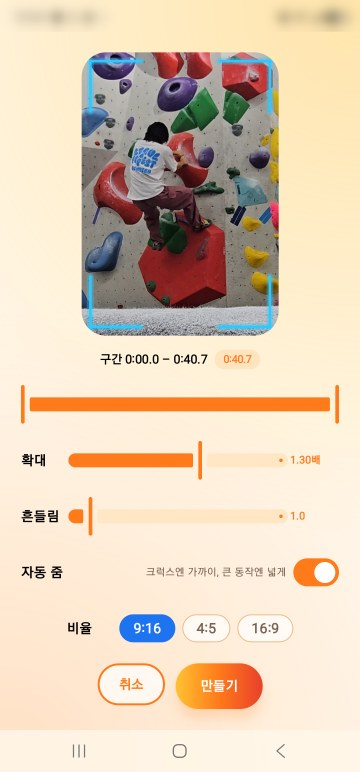
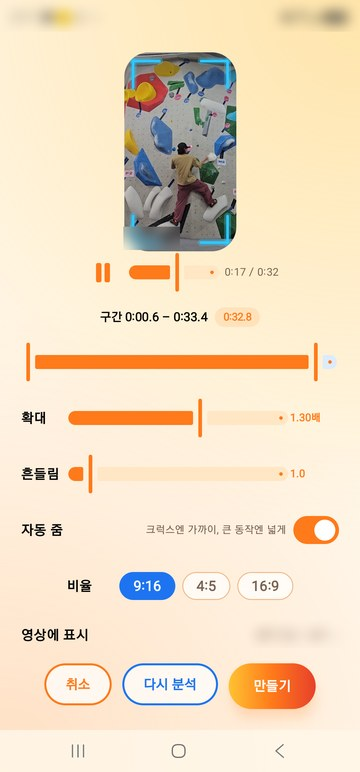
docs: README 스크린샷을 0.4.7 화면으로(첫 화면·편집, 영상 선택 창·작업 목록 추가)
암장 이름(영상에 표시)과 상태 표시줄은 흐리게

diff --git a/README.md b/README.md
@@ -32,7 +32,12 @@
   &nbsp;&nbsp;
   <img src="docs/images/edit.jpg" alt="편집 화면" height="420">
 </p>
-<p align="center"><sub>스플래시 → 오늘의 명언이 있는 첫 화면 → 실시간 미리보기 편집 화면</sub></p>
+<p align="center"><sub>스플래시 → 첫 화면(영상 선택 · 작업 목록 · 오늘의 명언) → 실시간 미리보기 편집 화면</sub></p>
+
+<p align="center">
+  <img src="docs/images/batch.jpg" alt="영상 선택 창과 작업 목록" height="420">
+</p>
+<p align="center"><sub>영상 선택: 1개 편집 / 여러 영상 일괄 편집(ⓘ 안내) → 작업 목록(골라 넣을 때마다 작업 하나)</sub></p>
 
 ## 주요 기능
 
